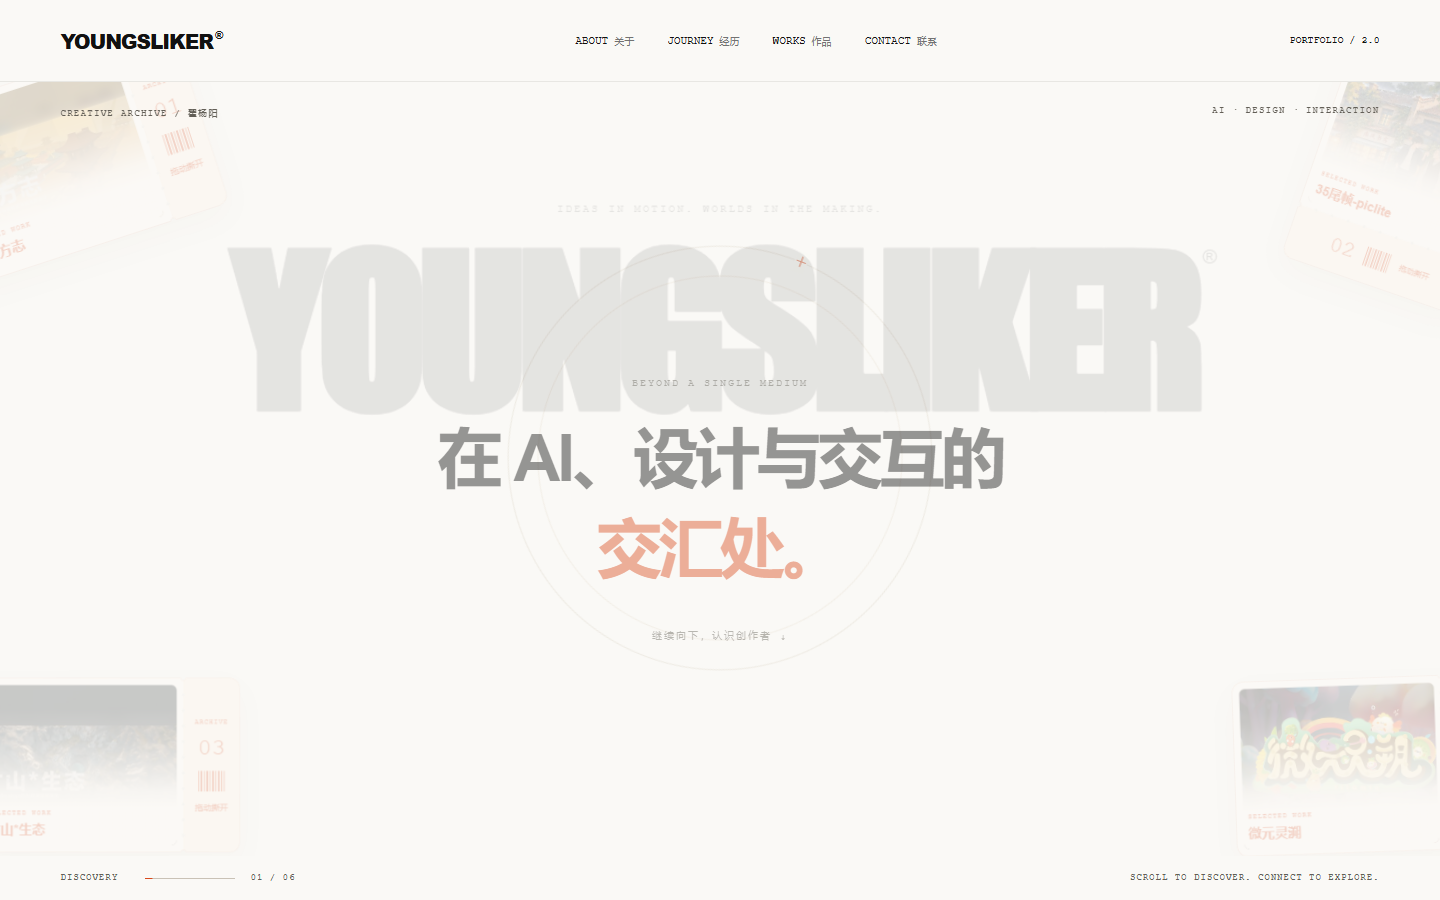
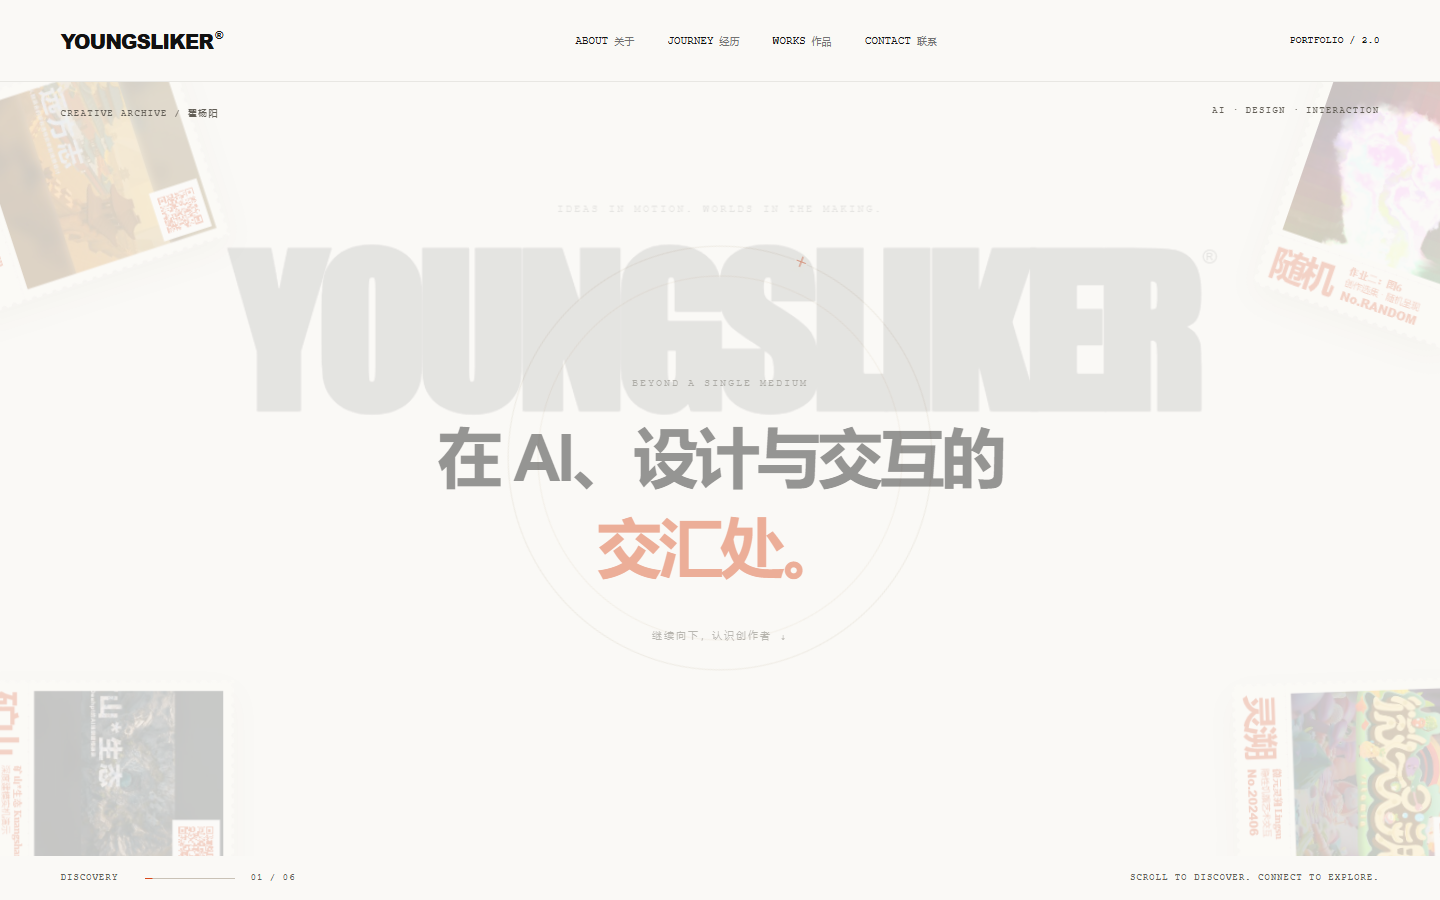
new6asn

diff --git a/New/css/artwork-ticket.css b/New/css/artwork-ticket.css
@@ -1,20 +1,33 @@
-.artwork-ticket { position: relative; filter: drop-shadow(0 12px 17px #55341d18); }
-.artwork-ticket .tear-ticket { width: 100%; }
-.artwork-ticket .tear-ticket__art { height: calc(var(--tt-body-h) - 52px); border-radius: 0; }
-.artwork-ticket .tear-ticket__scrim { background: linear-gradient(to top, #fffaf4 0%, #fffaf4 24%, #fffaf4e8 34%, #fffaf440 65%, transparent 85%); }
-.artwork-ticket__caption { position: absolute; bottom: 8px; left: 10px; right: 10px; height: 34px; display: flex; align-items: center; color: #d94a1c; }
-.artwork-ticket__caption h2 { margin: 0; font-size: 16px; line-height: 1.25; overflow-wrap: anywhere; display: -webkit-box; -webkit-line-clamp: 2; -webkit-box-orient: vertical; overflow: hidden; }
-.artwork-ticket__stub { height: 100%; display: grid; align-items: center; justify-items: center; padding: 7px; color: #d94a1c; text-align: center; }
-.artwork-ticket__stub strong { font: 13px var(--mono); white-space: nowrap; }
-.artwork-ticket__description { margin: 0; font-size: 8px; line-height: 1.5; overflow-wrap: anywhere; writing-mode: horizontal-tb; }
-.artwork-ticket__qr { display: block; width: 56px; height: 56px; min-width: 56px; max-width: none; aspect-ratio: 1; object-fit: contain; image-rendering: pixelated; }
-.artwork-ticket .tear-ticket[data-orientation="horizontal"] .artwork-ticket__stub { grid-template-columns: minmax(0, 1fr); grid-template-rows: 48px minmax(56px, 1fr) 34px; row-gap: 6px; padding: 8px 6px; }
-.artwork-ticket .tear-ticket[data-orientation="horizontal"] .artwork-ticket__description { grid-column: 1; grid-row: 1; align-self: start; padding-top: 4px; text-align: left; }
-.artwork-ticket .tear-ticket[data-orientation="horizontal"] .artwork-ticket__qr { grid-column: 1; grid-row: 2; justify-self: center; }
-.artwork-ticket .tear-ticket[data-orientation="horizontal"] .artwork-ticket__stub strong { grid-column: 1; grid-row: 3; justify-self: center; font-size: 13px; }
-.artwork-ticket .tear-ticket[data-orientation="vertical"] .artwork-ticket__stub { grid-template-columns: minmax(0, 1fr) 42px 20px; grid-template-rows: 1fr 22px; column-gap: 4px; }
-.artwork-ticket .tear-ticket[data-orientation="vertical"] .artwork-ticket__description { grid-column: 1; grid-row: 1; text-align: left; padding: 0 5px; display: -webkit-box; -webkit-line-clamp: 3; -webkit-box-orient: vertical; overflow: hidden; }
-.artwork-ticket .tear-ticket[data-orientation="vertical"] .artwork-ticket__qr { grid-column: 2; grid-row: 1; }
-.artwork-ticket .tear-ticket[data-orientation="vertical"] .artwork-ticket__stub strong { grid-column: 3; grid-row: 1; writing-mode: vertical-rl; }
-.artwork-ticket .tear-ticket__piece--stub:focus-visible .tear-ticket__paper { background: #ffe0c4; }
-.artwork-ticket .tear-ticket[data-used] .tear-ticket__content { opacity: 1; }
+.artwork-ticket { position:relative; width:100%; filter:drop-shadow(0 12px 17px #55341d20); }
+.artwork-ticket__sheet { position:absolute; top:0; left:0; width:360px; height:280px; transform-origin:0 0; }
+.artwork-ticket .tear-ticket__paper {
+  mask:
+    radial-gradient(circle at 7px 0, transparent 3.5px, #000 4px) 0 0 / 14px 100% repeat-x,
+    radial-gradient(circle at 7px 100%, transparent 3.5px, #000 4px) 0 0 / 14px 100% repeat-x,
+    radial-gradient(circle at 0 7px, transparent 3.5px, #000 4px) 0 0 / 100% 14px repeat-y,
+    radial-gradient(circle at 100% 7px, transparent 3.5px, #000 4px) 0 0 / 100% 14px repeat-y;
+  mask-composite:intersect;
+}
+.artwork-ticket .tear-ticket__art { top:15px; left:15px; width:271px; height:198px; border-radius:0; }
+.artwork-ticket__qr {
+  position:absolute; top:20px; right:20px; display:block;
+  width:60px; height:60px; min-width:60px; max-width:none;
+  aspect-ratio:1; object-fit:contain; border:3px solid #fff; background:#fff;
+  box-sizing:content-box; image-rendering:pixelated;
+}
+.artwork-ticket__stub {
+  height:100%; display:grid; grid-template-columns:98px minmax(0,1fr);
+  gap:5px; align-items:center; padding:5px 15px 12px; color:#d94a1c;
+}
+.artwork-ticket__name {
+  font-family:Arial,"Microsoft YaHei",sans-serif; font-size:48px; font-weight:900;
+  line-height:1; letter-spacing:-4px; white-space:nowrap; color:#171717;
+}
+.artwork-ticket__caption { min-width:0; display:flex; flex-direction:column; gap:3px; }
+.artwork-ticket__caption h2 {
+  margin:0; font-family:Georgia,"Songti SC","SimSun",serif; font-size:13px;
+  line-height:1.1; letter-spacing:-.55px; font-weight:700;
+  overflow:hidden; white-space:nowrap; text-overflow:ellipsis; color:#d94a1c;
+}
+.artwork-ticket__description { margin:0; font-size:12px; line-height:1.1; white-space:nowrap; color:#d94a1c; }
+.artwork-ticket__caption strong { font-family:Arial,sans-serif; font-size:16px; line-height:1; font-weight:800; }

diff --git a/New/js/components/ArtworkTicket.tsx b/New/js/components/ArtworkTicket.tsx
@@ -1,30 +1,56 @@
-import { useEffect, useState } from 'react';
+import { useEffect, useRef, useState } from 'react';
 import QRCode from 'qrcode';
 import TearTicket from './TearTicket';
 import '../../css/artwork-ticket.css';
 
-export function ArtworkTicket({ title, description, date, image, qrValue, width, height }: {
+const labels: Record<string, { short: string; title: string; description: string }> = {
+  '202507': { short: '绥远', title: '绥远方志 Suiyuan', description: '史志体验场景设计' },
+  '202308': { short: '矿山', title: '矿山*生态 Kuangshan', description: '深度建模实机演示' },
+  '202406': { short: '灵溯', title: '微元灵溯 Lingsu', description: '隐性饥饿艺术交互' },
+};
+export function ArtworkTicket({ title, date, image, qrValue, width, height }: {
   title: string; description: string; date: string; image?: string; qrValue: string; width: number; height: number;
 }) {
   const vertical = height > width;
+  const host = useRef<HTMLDivElement>(null);
+  const [scale, setScale] = useState(1);
   const [qr, setQr] = useState('');
-  useEffect(() => { QRCode.toDataURL(qrValue, { margin: 0, width: 72, color: { dark: '#d94a1c', light: '#fff1e2' } }).then(setQr); }, [qrValue]);
-  return <div className="artwork-ticket">
-    <TearTicket image={image} imageAlt={title + '作品图像'}
-      width={width} height={height} orientation={vertical ? 'vertical' : 'horizontal'}
-      stubSize={vertical ? 108 : 84} scrim={false} imageRadius={0}
-      radius={0} holes={10} holeSize={4} notch={3} roughness={0}
-      tearAngle={30} stretch={20} resistance={.45} rotate={0}
-      tilt tiltMax={5} tiltReach={180} parallax={4} perspective={1000}
-      background="#fffaf4" stubBackground="#fff1e2" color="#d94a1c"
-      border borderColor="#d94a1c55" borderWidth={1} recenter
-      ariaLabel={'撕开' + title + '作品票根'}
-      stub={<div className="artwork-ticket__stub">
-        <p className="artwork-ticket__description">{description}</p>
-        {qr && <img className="artwork-ticket__qr" src={qr} alt="扫描进入作品" />}
-        <strong>No.{date}</strong>
-      </div>}>
-      <div className="artwork-ticket__caption"><h2>{title}</h2></div>
-    </TearTicket>
+  const label = labels[date] ?? { short: '随机', title, description: '创作选集 · 随机呈现' };
+  useEffect(() => {
+    const element = host.current;
+    if (!element) return;
+    const observer = new ResizeObserver(([entry]) => setScale(entry.contentRect.width / (vertical ? 280 : 360)));
+    observer.observe(element);
+    return () => observer.disconnect();
+  }, [vertical]);
+  useEffect(() => {
+    let active = true;
+    QRCode.toDataURL(qrValue, { margin: 4, width: 256, color: { dark: '#d94a1c', light: '#ffffff' } })
+      .then(value => { if (active) setQr(value); });
+    return () => { active = false; };
+  }, [qrValue]);
+  return <div ref={host} className="artwork-ticket" data-layout={vertical ? 'portrait' : 'landscape'}
+    style={{ aspectRatio: vertical ? '280 / 360' : '360 / 280' }}>
+    <div className="artwork-ticket__sheet" style={{
+      transform: vertical ? `translateY(${280 * scale}px) rotate(90deg) scale(${scale})` : `scale(${scale})`,
+    }}>
+      <TearTicket image={image} imageAlt={title + '作品图像'}
+        width={360} height={280} orientation="horizontal" stubSize={74}
+        scrim={false} imageRadius={0} radius={0} holes={16} holeSize={2} notch={3} roughness={0}
+        tearAngle={30} stretch={20} resistance={.45} rotate={0}
+        tilt tiltMax={5} tiltReach={180} parallax={date === 'RANDOM' ? 9 : 4} perspective={1000}
+        background="#fffdf7" stubBackground="#fffdf7" color="#d94a1c"
+        border={false} recenter={false} ariaLabel={'撕开' + title + '作品票根'}
+        stub={<div className="artwork-ticket__stub">
+          <span className="artwork-ticket__name">{label.short}</span>
+          <div className="artwork-ticket__caption">
+            <h2>{label.title}</h2>
+            <p className="artwork-ticket__description">{label.description}</p>
+            <strong>No.{date}</strong>
+          </div>
+        </div>}>
+        {qr && <img className="artwork-ticket__qr" src={qr} alt="扫描进入作品" draggable={false} />}
+      </TearTicket>
+    </div>
   </div>;
 }

diff --git a/New/css/hero.css b/New/css/hero.css
@@ -8,12 +8,12 @@
 .hero-orbit { position: absolute; width: 370px; height: 370px; left: calc(50% - 185px); top: calc(46% - 185px); border: 1px solid #e4dfd4; border-radius: 50%; z-index: -1; }
 .hero-orbit i { position: absolute; inset: 25px; border: 1px solid #ece6db; border-radius: 50%; }
 .hero-orbit > span { position: absolute; top: -10px; left: 50%; color: var(--accent-text); background: var(--paper); font: 18px var(--mono); }
-.hero-card { margin: 0; position: absolute; width: 21%; max-width: 320px; z-index: 3; will-change: transform,opacity; }
+.hero-card { margin: 0; position: absolute; width: 15%; max-width: 224px; z-index: 3; will-change: transform,opacity; }
 .hero-card:focus-within, .hero-card:hover { z-index: 7; }
 .hero-card--1 { left: 4%; top: 12%; transform: rotate(-11deg); }
-.hero-card--2 { right: 5%; top: 10%; width: 20%; transform: rotate(12deg); }
-.hero-card--3 { left: 7%; top: 57%; width: 20%; transform: rotate(7deg); }
-.hero-card--4 { right: 5%; top: 57%; width: 20%; transform: rotate(-9deg); }
+.hero-card--2 { right: 5%; top: 10%; width: 16%; transform: rotate(12deg); }
+.hero-card--3 { left: 7%; top: 57%; width: 14%; transform: rotate(7deg); }
+.hero-card--4 { right: 5%; top: 57%; width: 14%; transform: rotate(-9deg); }
 .hero-description { position: absolute; top: 60%; left: 27%; right: 27%; text-align: center; z-index: 4; }
 .hero-rule { display: block; width: 56px; height: 2px; background: var(--accent); margin: 0 auto 18px; }
 .hero-description p { font-size: clamp(15px,1.4vw,22px); line-height: 1.7; }
@@ -42,11 +42,11 @@
   .hero h1 { font-size:14.1vw; letter-spacing:-.035em; }
   .hero h1 > span { font-size:9px; margin:5px 0 0 2px; }
   .hero-orbit { width:230px; height:230px; left:calc(50% - 115px); top:calc(40% - 115px); }
-  .hero-card { width:32%; }
+  .hero-card { width:23%; }
   .hero-card--1 { top:9%; left:5%; transform:rotate(-10deg); }
-  .hero-card--2 { top:9%; right:7%; width:30%; transform:rotate(10deg); }
-  .hero-card--3 { top:65%; left:3%; width:30%; }
-  .hero-card--4 { top:65%; right:3%; width:30%; }
+  .hero-card--2 { top:9%; right:7%; width:24%; transform:rotate(10deg); }
+  .hero-card--3 { top:65%; left:3%; width:21%; }
+  .hero-card--4 { top:65%; right:3%; width:21%; }
   .hero-description { top:53%; left:18%; right:18%; }
   .hero-description p { font-size:13px; }
   .hero-description > span:last-child { font-size:7px; letter-spacing:0; margin-top:8px; }

diff --git a/New/js/tests/ticket.spec.ts b/New/js/tests/ticket.spec.ts
@@ -12,9 +12,13 @@ for (const viewport of [{width:1440,height:900}, {width:375,height:667}]) {
     for (let i=0;i<4;i++) {
       const ticket=tickets.nth(i);
       await expect(ticket).toHaveAttribute('data-orientation','horizontal');
+      await expect(page.locator('.artwork-ticket').nth(i)).toHaveAttribute('data-layout', i === 1 ? 'portrait' : 'landscape');
       await expect(ticket).toHaveCSS('color','rgb(217, 74, 28)');
       await expect(ticket.locator('.tear-ticket__image')).toBeVisible();
       await expect(ticket.locator('.artwork-ticket__qr')).toBeVisible();
+      const qrSize = await ticket.locator('.artwork-ticket__qr').evaluate(el => ({w: el.clientWidth, h: el.clientHeight}));
+      expect(qrSize.w).toBe(qrSize.h);
+      await expect(ticket.locator('.tear-ticket__art')).toHaveCSS('border-radius','0px');
       await expect.poll(() => ticket.locator('.tear-ticket__image').evaluate(img => (img as HTMLImageElement).naturalWidth)).toBeGreaterThan(0);
       const box=await ticket.boundingBox(); expect(box!.width).toBeGreaterThan(70);
     }
@@ -39,7 +43,7 @@ test('horizontal and vertical stubs tear with pointer drag', async ({page}) => {
     const x=box.x+box.width*.35, y=box.y+box.height*.3;
     await page.mouse.move(x,y); await page.mouse.down();
     for(let step=1;step<=25;step++) {
-      await page.mouse.move(x+(i===0?step*12:0),y+(i===1?step*12:0));
+      await page.mouse.move(x+(i===0?-step*12:0),y+(i===1?step*12:0));
       await page.waitForTimeout(20);
     }
     await page.mouse.up();

diff --git a/New/js/components/TearTicket.jsx b/New/js/components/TearTicket.jsx
@@ -401,9 +401,14 @@ export default function TearTicket({
   }, []);
 
   const local = e => {
-    const r = stageRef.current.getBoundingClientRect();
-    const k = r.width / width || 1;
-    return { x: (e.clientX - r.left) / k, y: (e.clientY - r.top) / k };
+    // Invert the outer rotation and responsive scale using three stage anchors.
+    const points = stageRef.current.querySelectorAll('[data-ticket-anchor]');
+    const [o, x, y] = Array.from(points, point => point.getBoundingClientRect());
+    const ax = (x.left - o.left) / width, ay = (x.top - o.top) / width;
+    const bx = (y.left - o.left) / height, by = (y.top - o.top) / height;
+    const det = ax * by - ay * bx || 1;
+    const dx = e.clientX - o.left, dy = e.clientY - o.top;
+    return { x: (dx * by - dy * bx) / det, y: (dy * ax - dx * ay) / det };
   };
   const tearNow = () => {
     const s = sim.current;
@@ -534,6 +539,9 @@ export default function TearTicket({
       }}
     >
       <div ref={stageRef} className="tear-ticket__stage">
+        <span data-ticket-anchor="" style={{ position: 'absolute', left: 0, top: 0, pointerEvents: 'none' }} />
+        <span data-ticket-anchor="" style={{ position: 'absolute', left: width, top: 0, pointerEvents: 'none' }} />
+        <span data-ticket-anchor="" style={{ position: 'absolute', left: 0, top: height, pointerEvents: 'none' }} />
         <motion.div className="tear-ticket__plane" style={{ transform: plane }}>
           <div ref={bodyRef} className="tear-ticket__piece">
             {border ? (

diff --git a/New/js/components/Hero.tsx b/New/js/components/Hero.tsx
@@ -35,7 +35,7 @@ export function Hero() {
         <div className={`hero-card hero-card--${index+1}`} key={artwork.id}>
           <ArtworkTicket title={artwork.title} description={artwork.description} date={artwork.date}
             image={artwork.image} qrValue={`${location.origin}${import.meta.env.BASE_URL}#work=${artwork.id}`}
-            width={320} height={210} />
+            width={index === 1 ? 280 : 360} height={index === 1 ? 360 : 280} />
         </div>)}</div>
       <div className="hero-description"><span className="hero-rule" /><p>探索人工智能、数字体验<br className="mobile-break" />与视觉传播的边界。</p><span>AI × CREATIVE × INTERACTION</span></div>
       <div className="hero-bridge" aria-hidden="true"><span>BEYOND A SINGLE MEDIUM</span><p>在 AI、设计与交互的<br /><em>交汇处。</em></p><span>继续向下，认识创作者 ↓</span></div>
